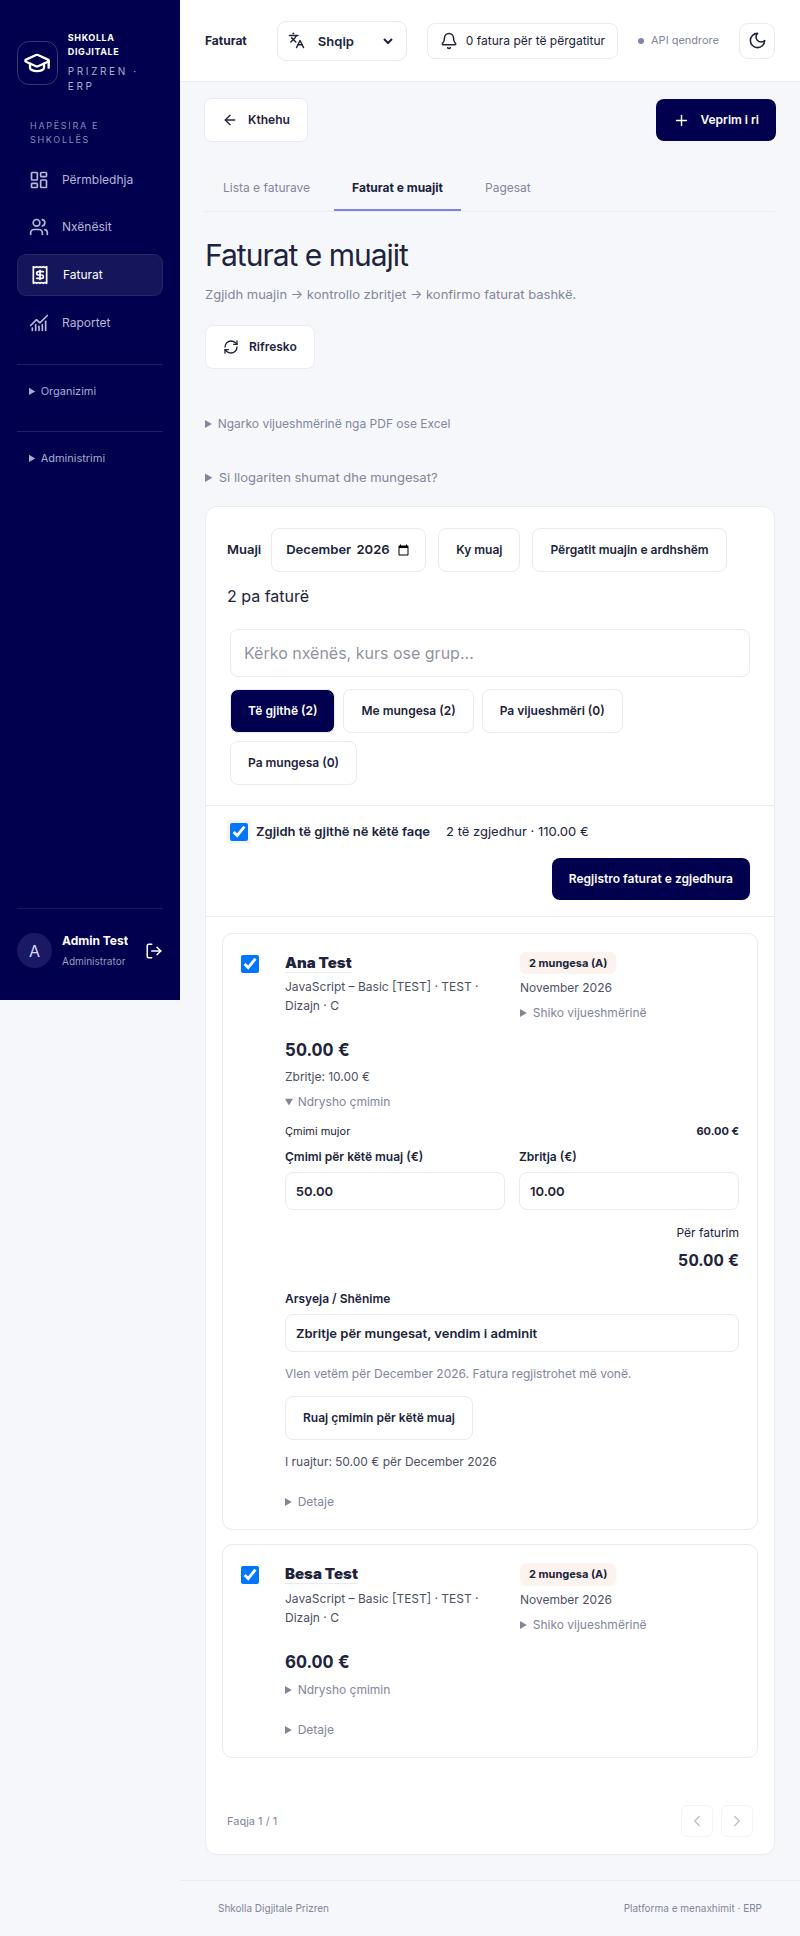
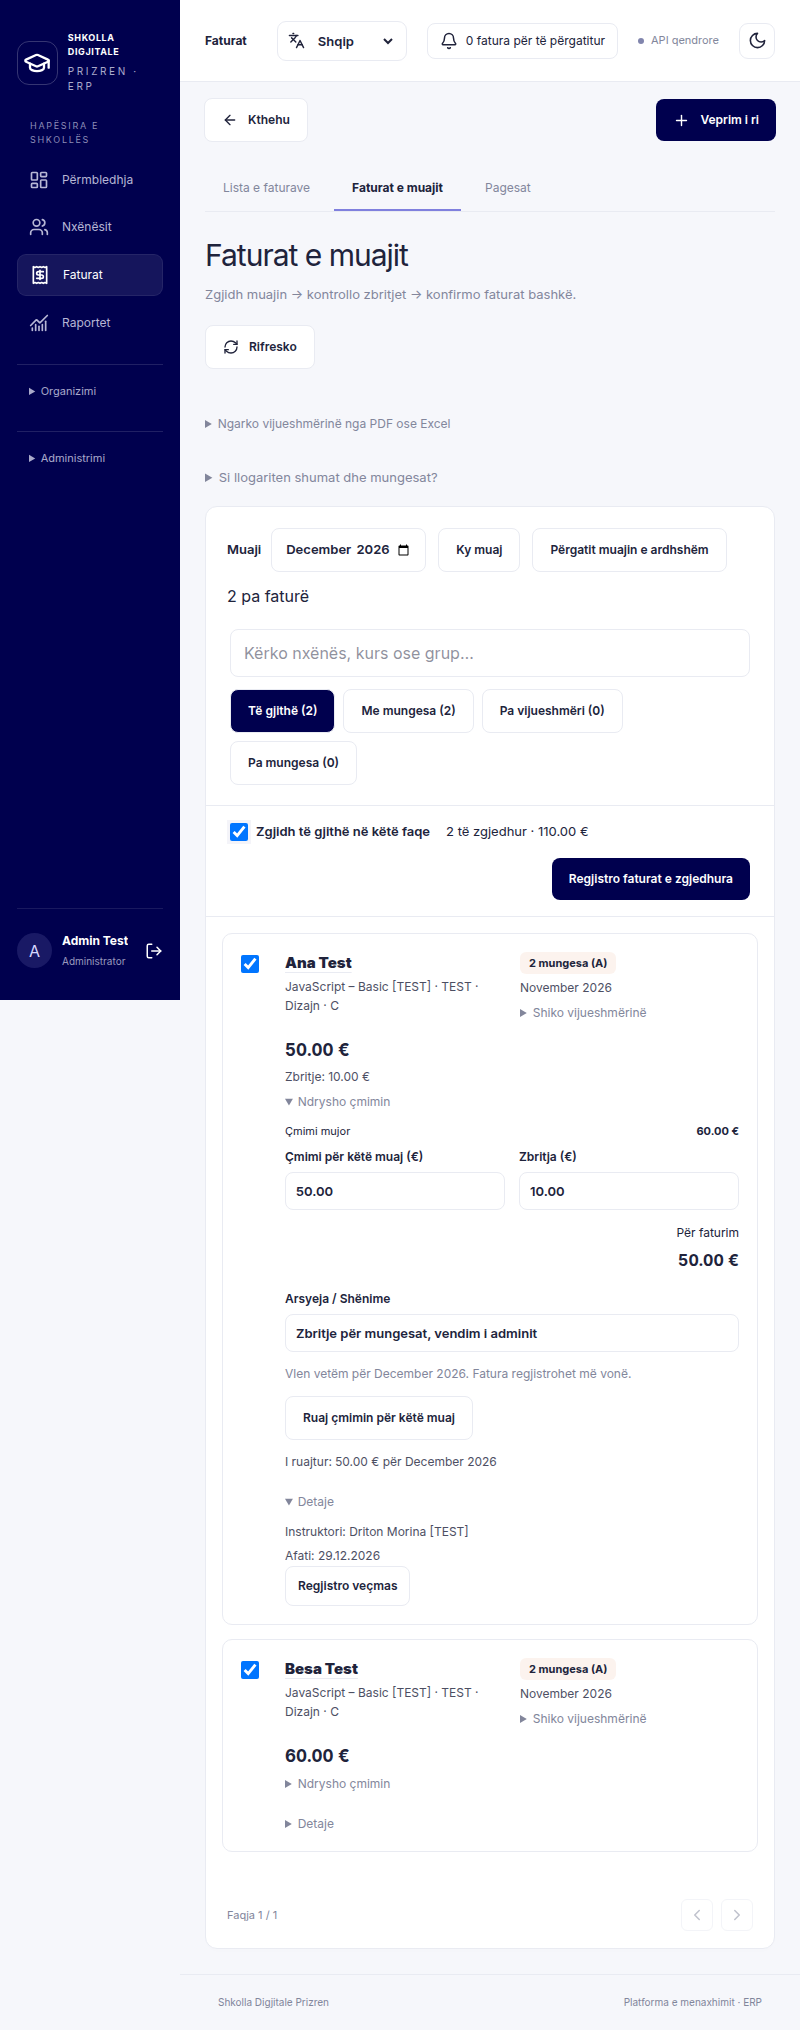
Ndryshuar: Students.jsx, Finance.jsx, students.js, invoices.js, en.json, invoice-list.test.mjs.
U shtuan grupi/regjistrimi te nxënësit dhe totali mujor i borxhit; testet dhe build kaluan.

diff --git a/apps/desktop/src/pages/Students.jsx b/apps/desktop/src/pages/Students.jsx
@@ -2,6 +2,8 @@ import { t, tm } from "../services/i18n.js";
 import StudentHistory from "../components/StudentHistory";
 import StudentModal from "../components/StudentModal";
 import StudentLink from "../components/StudentLink";
+import { ResourceEditor } from "./ResourcePage";
+import { getResources } from "./resources";
 import { useDialog } from "../hooks/useDialog";
 import { useSchoolUpdates } from "../hooks/useSchoolUpdates";
 import { useState, useEffect } from "react";
@@ -31,6 +33,7 @@ export default function StudentsPage({
     [sort, setSort] = useState("newest"),
     [page, setPage] = useState(1),
     [editing, setEditing] = useState(null),
+    [enrolling, setEnrolling] = useState(null),
     [history, setHistory] = useState(null),
     [error, setError] = useState(""),
     [notice, setNotice] = useState(""),
@@ -163,6 +166,7 @@ export default function StudentsPage({
                 <th>{t("Datëlindja")}</th>
                 <th>{t("Prindi / Kujdestari")}</th>
                 <th>{t("Telefoni")}</th>
+                <th>{t("Grupi")}</th>
                 <th>{t("Statusi")}</th>
                 <th>{t("Veprime")}</th>
               </tr>
@@ -186,6 +190,27 @@ export default function StudentsPage({
                   <td>{date(s.birthDate)}</td>
                   <td>{s.parentName}</td>
                   <td>{s.parentPhone}</td>
+                  <td className="student-groups">
+                    {s.enrollments?.length ? (
+                      s.enrollments.map((e) => (
+                        <div key={e.id} title={e.group.name}>
+                          {e.group.name}
+                        </div>
+                      ))
+                    ) : (
+                      <>
+                        <span>{t("Pa grup")}</span>
+                        {canWrite && (
+                          <button
+                            className="secondary"
+                            onClick={() => setEnrolling(s)}
+                          >
+                            {t("Regjistro në grup")}
+                          </button>
+                        )}
+                      </>
+                    )}
+                  </td>
                   <td>
                     <Badge status={s.status} />
                   </td>
@@ -270,6 +295,22 @@ export default function StudentsPage({
           id={history.id}
           name={`${history.firstName} ${history.lastName}`}
           close={() => setHistory(null)}
+        />
+      )}
+      {enrolling && (
+        <ResourceEditor
+          config={getResources().enrollments}
+          row="new"
+          initialValues={{ studentId: enrolling.id }}
+          initialLabels={{
+            studentId: `${enrolling.firstName} ${enrolling.lastName}`,
+          }}
+          close={() => setEnrolling(null)}
+          saved={() => {
+            setEnrolling(null);
+            setNotice(t("Të dhënat u ruajtën me sukses."));
+            window.dispatchEvent(new Event("student-updated"));
+          }}
         />
       )}
       {editing && (

diff --git a/apps/api/src/invoices/invoices.js b/apps/api/src/invoices/invoices.js
@@ -127,7 +127,7 @@ let InvoicesController = class InvoicesController {
   }
   async list(q) {
     const where = invoiceWhere(q);
-    const [total, items] = await this.db.$transaction([
+    const [total, items, sums] = await this.db.$transaction([
       this.db.invoice.count({ where }),
       this.db.invoice.findMany({
         where,
@@ -140,21 +140,30 @@ let InvoicesController = class InvoicesController {
           },
         },
       }),
+      this.db.invoice.aggregate({
+        where: { AND: [where, { status: { not: "VOID" } }] },
+        _sum: { amount: true, paidAmount: true },
+      }),
     ]);
-    return (0, query_1.pagination)(
-      total,
-      q,
-      items.map((i) => ({
-        ...i,
-        lastPaidAt:
-          i.allocations
-            .filter((a) => !a.payment.reversedAt)
-            .map((a) => a.payment.paidAt)
-            .sort((a, b) => b - a)[0] ?? null,
-        allocations: undefined,
-        balance: i.amount.minus(i.paidAmount).toFixed(2),
-      })),
-    );
+    return {
+      ...(0, query_1.pagination)(
+        total,
+        q,
+        items.map((i) => ({
+          ...i,
+          lastPaidAt:
+            i.allocations
+              .filter((a) => !a.payment.reversedAt)
+              .map((a) => a.payment.paidAt)
+              .sort((a, b) => b - a)[0] ?? null,
+          allocations: undefined,
+          balance: i.amount.minus(i.paidAmount).toFixed(2),
+        })),
+      ),
+      totalBalance: new client_1.Prisma.Decimal(sums._sum.amount ?? 0)
+        .minus(sums._sum.paidAmount ?? 0)
+        .toFixed(2),
+    };
   }
   generate(dto, req) {
     throw new common_1.BadRequestException(

diff --git a/apps/desktop/src/pages/Finance.jsx b/apps/desktop/src/pages/Finance.jsx
@@ -318,6 +318,7 @@ export default function Finance({ kind, user, openReview }) {
   }, [kind]);
   useEffect(() => {
     const controller = new AbortController();
+    setData(null);
     const timer = setTimeout(() => {
       const params = new URLSearchParams({
         page: String(page),
@@ -614,6 +615,12 @@ export default function Finance({ kind, user, openReview }) {
         {data && !data.items.length && (
           <div className="empty">
             {t("Nuk ka regjistrime për këto filtra.")}
+          </div>
+        )}
+        {kind === "invoices" && period && data && (
+          <div className="payment-total" role="status">
+            {t("Totali i borxhit për {0}", [monthLabel(period)])}
+            <strong>{money(data.totalBalance)}</strong>
           </div>
         )}
         <div className="pagination">

diff --git a/apps/api/src/students/students.js b/apps/api/src/students/students.js
@@ -257,6 +257,13 @@ let StudentsController = class StudentsController {
         this.db.student.count({ where }),
         this.db.student.findMany({
           where,
+          include: {
+            enrollments: {
+              where: { status: "ACTIVE" },
+              select: { id: true, group: { select: { id: true, name: true } } },
+              orderBy: { createdAt: "asc" },
+            },
+          },
           orderBy:
             query.sort === "newest"
               ? [{ createdAt: "desc" }, { id: "asc" }]

diff --git a/apps/desktop/src/styles.css b/apps/desktop/src/styles.css
@@ -683,6 +683,20 @@ td {
   align-items: center;
   gap: 11px;
 }
+.student-table .student-groups {
+  white-space: normal;
+  overflow-wrap: anywhere;
+}
+.student-table .student-groups > div {
+  width: 140px;
+}
+.student-table .student-groups .secondary {
+  display: block;
+  margin-top: 6px;
+  padding: 5px 8px;
+  font-size: inherit;
+  white-space: normal;
+}
 .name-cell strong {
   font-weight: 600;
 }

diff --git a/apps/desktop/vite.config.js b/apps/desktop/vite.config.js
@@ -4,7 +4,7 @@ import tailwindcss from "@tailwindcss/vite";
 export default defineConfig({
   plugins: [react(), tailwindcss()],
   base: "./",
-  optimizeDeps: { include: ["@erp/shared/src/translate.cjs"] },
+  optimizeDeps: { exclude: ["@erp/shared/src/translate.mjs"] },
   build: {
     commonjsOptions: { include: [/node_modules/, /packages\/shared\//] },
   },

diff --git a/apps/desktop/src/components/InvoiceDialog.jsx b/apps/desktop/src/components/InvoiceDialog.jsx
@@ -660,6 +660,7 @@ export function NewInvoiceDialog({
                     <label className="spaced">
                       {t("Arsyeja e ndryshimit")}
                       <textarea
+                        aria-label={t("Arsyeja e ndryshimit")}
                         required
                         maxLength={500}
                         value={notes}

diff --git a/apps/desktop/src/services/i18n.js b/apps/desktop/src/services/i18n.js
@@ -1,4 +1,4 @@
-import translation from "@erp/shared/src/translate.cjs";
+import * as translation from "@erp/shared/src/translate.mjs";
 const { translate, translateMessage, supportedLanguage } = translation;
 export const languageKey = "erp-language";
 let language = "sq";

diff --git a/docs/PERDORIMI.md b/docs/PERDORIMI.md
@@ -135,6 +135,15 @@ paraprak, grupin, instruktorin dhe çmimin; vendos vetë **Zbritjen (€)** dhe
 arsyen për ndryshimin e shumës. Nuk ka zbritje automatike nga mungesat. “Pa të
 dhëna” nuk do të thotë zero mungesa.
 
+Te **Ndrysho çmimin**, administratori mund ta shkruajë direkt **Çmimin për këtë
+muaj (€)**, p.sh. 30 € nga çmimi bazë 40 €. Zbritja përditësohet bashkë me
+çmimin. Shkruani arsyen dhe klikoni **Ruaj çmimin për këtë muaj**. Çmimi ruhet
+në databazë për atë nxënës, kurs dhe muaj, mbetet pas rifreskimit dhe përdoret
+si propozim kur regjistrohet fatura, bashkë ose veçmas. Ruajtja e çmimit nuk
+krijon faturë. Çmimi bazë dhe muajt e tjerë nuk ndryshojnë. Për muajin vijues,
+zgjidhni së pari **Përgatit muajin e ardhshëm**. Ndryshimi regjistrohet në
+historik; financat dhe instruktorët nuk mund ta ruajnë këtë çmim.
+
 Zgjidhni nxënësit me kutitë ✓ ose **Zgjidh të gjithë në këtë faqe** (vetëm faqja
 e dukshme). Klikoni **Regjistro faturat e zgjedhura**, kontrolloni listën,
 totalin dhe afatet dhe shtypni **Konfirmo regjistrimin**. ESC para konfirmimit
